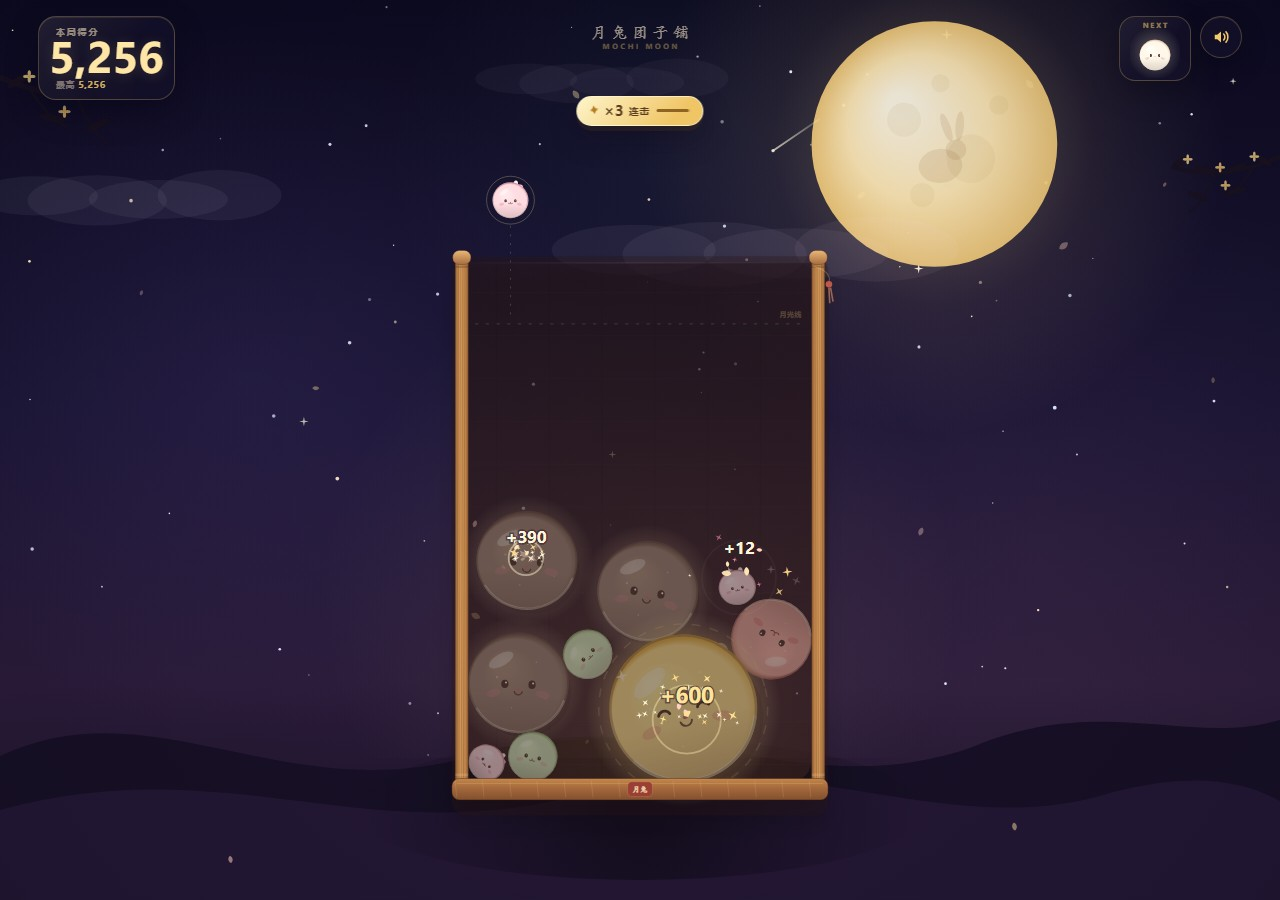
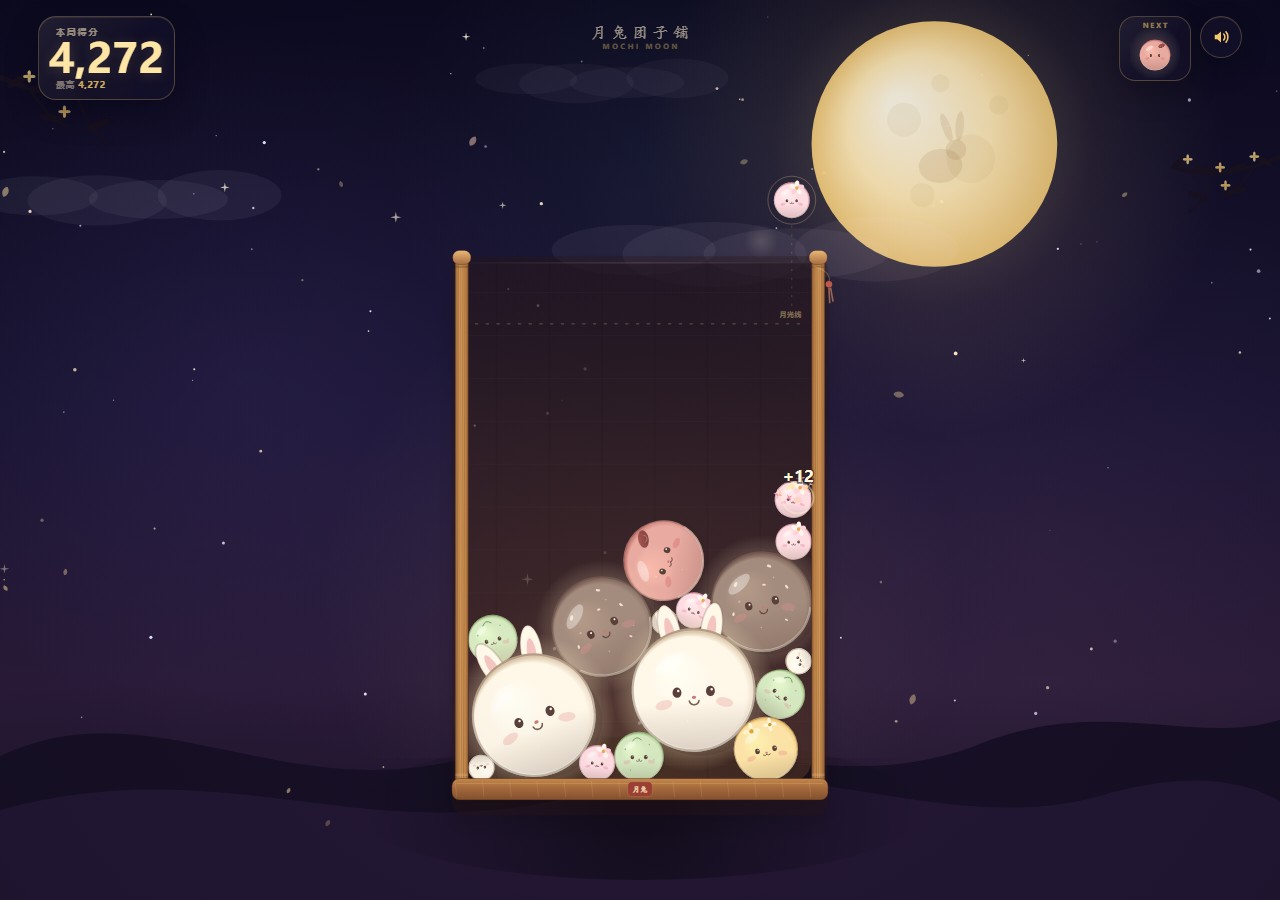
fix: correct mochi layering and polish edge cases
- Draw the basket shadow behind mochi bodies so tier colors stay bright
- Render surface toppings above the body while keeping rabbit ears behind
- Honor landscape safe-area insets in HUD and overlays
- Suppress stray overlay double-click drops with a start cooldown
- Wrap drifting clouds positively and lengthen supernova noise
- Add a result-screen sound toggle and regenerate README screenshots

diff --git a/css/overlays.css b/css/overlays.css
@@ -6,7 +6,11 @@
   z-index: 10;
   display: grid;
   place-items: center;
-  padding: max(16px, env(safe-area-inset-top)) 14px max(16px, env(safe-area-inset-bottom));
+  padding:
+    max(16px, env(safe-area-inset-top))
+    max(14px, env(safe-area-inset-right))
+    max(16px, env(safe-area-inset-bottom))
+    max(14px, env(safe-area-inset-left));
   background:
     radial-gradient(ellipse at 50% 38%, rgba(255, 222, 155, 0.06), transparent 44%),
     rgba(5, 4, 15, 0.48);
@@ -23,7 +27,7 @@
 
 .card {
   position: relative;
-  width: min(92vw, 510px);
+  width: min(100%, 510px);
   max-height: calc(100dvh - 32px);
   overflow: auto;
   padding: 32px clamp(22px, 5vw, 42px) 26px;
@@ -296,7 +300,7 @@
 /* ---------- Result card ---------- */
 
 .result-card {
-  width: min(92vw, 440px);
+  width: min(100%, 440px);
   padding-top: 29px;
 }
 
@@ -423,12 +427,12 @@
 
 @media (max-width: 560px) {
   .overlay {
-    padding-left: 10px;
-    padding-right: 10px;
+    padding-left: max(10px, env(safe-area-inset-left));
+    padding-right: max(10px, env(safe-area-inset-right));
   }
 
   .card {
-    width: min(94vw, 450px);
+    width: min(100%, 450px);
     max-height: calc(100dvh - 24px);
     border-radius: 28px;
     padding: 25px 20px 21px;
@@ -602,11 +606,15 @@
 
 @media (max-height: 560px) and (orientation: landscape) {
   .overlay {
-    padding: 8px;
+    padding:
+      max(8px, env(safe-area-inset-top))
+      max(8px, env(safe-area-inset-right))
+      max(8px, env(safe-area-inset-bottom))
+      max(8px, env(safe-area-inset-left));
   }
 
   .card {
-    width: min(92vw, 760px);
+    width: min(100%, 760px);
     padding: 15px 24px 14px;
     border-radius: 22px;
     max-height: calc(100dvh - 16px);
@@ -690,7 +698,7 @@
   }
 
   .result-card {
-    width: min(88vw, 620px);
+    width: min(100%, 620px);
   }
 
   .result-card h2 {

diff --git a/js/stage.js b/js/stage.js
@@ -71,6 +71,7 @@ export class Stage {
     ctx.scale(this.scale, this.scale);
 
     this.drawBackdrop();
+    this.drawBasketShadow();
     this.drawBasketBack();
     this.drawDangerZone(time, view.mode, view.dangerTimer);
     this.drawBodies(view.bodies, time);
@@ -128,6 +129,25 @@ export class Stage {
     ctx.quadraticCurveTo(B.right, B.bottomY, B.right, B.bottomY - r);
     ctx.lineTo(B.right, B.rimY);
     ctx.closePath();
+  }
+
+  drawBasketShadow() {
+    const { ctx } = this;
+    ctx.save();
+    ctx.shadowColor = "rgba(0, 0, 0, 0.38)";
+    ctx.shadowBlur = 20;
+    ctx.shadowOffsetY = 12;
+    roundRectPath(
+      ctx,
+      B.left - B.wall - 4,
+      B.rimY - 8,
+      B.right - B.left + (B.wall + 4) * 2,
+      B.bottomY - B.rimY + B.wall + 34,
+      18,
+    );
+    ctx.fillStyle = "rgba(43, 24, 22, 0.35)";
+    ctx.fill();
+    ctx.restore();
   }
 
   drawBasketBack() {
@@ -262,22 +282,6 @@ export class Stage {
 
   drawBasketFront() {
     const { ctx } = this;
-    ctx.save();
-    ctx.shadowColor = "rgba(0, 0, 0, 0.38)";
-    ctx.shadowBlur = 20;
-    ctx.shadowOffsetY = 12;
-    roundRectPath(
-      ctx,
-      B.left - B.wall - 4,
-      B.rimY - 8,
-      B.right - B.left + (B.wall + 4) * 2,
-      B.bottomY - B.rimY + B.wall + 34,
-      18,
-    );
-    ctx.fillStyle = "rgba(43, 24, 22, 0.35)";
-    ctx.fill();
-    ctx.restore();
-
     this.drawBambooWall(B.left - B.wall, B.wall, true);
     this.drawBambooWall(B.right, B.wall, false);
 

diff --git a/index.html b/index.html
@@ -147,6 +147,17 @@
 
     <section class="overlay is-hidden" id="overOverlay" role="dialog" aria-modal="true" aria-labelledby="overTitle" aria-hidden="true">
       <div class="card result-card">
+        <button class="card-sound js-sound" type="button" aria-label="关闭声音" aria-pressed="true">
+          <svg class="icon-on" viewBox="0 0 24 24" aria-hidden="true">
+            <path d="M4.5 9.3h3L12 5.5v13l-4.5-3.8h-3z" fill="currentColor" />
+            <path d="M15.2 8.4c1.9 1.9 1.9 5.3 0 7.2M18 5.8c3 3 3 9.4 0 12.4" fill="none" stroke="currentColor" stroke-width="1.9" stroke-linecap="round"/>
+          </svg>
+          <svg class="icon-off" viewBox="0 0 24 24" aria-hidden="true">
+            <path d="M4.5 9.3h3L12 5.5v13l-4.5-3.8h-3z" fill="currentColor" />
+            <path d="m15.3 9.6 4.9 4.9m0-4.9-4.9 4.9" fill="none" stroke="currentColor" stroke-width="1.9" stroke-linecap="round"/>
+          </svg>
+        </button>
+
         <div class="eyebrow">THE MOON IS FULL</div>
         <h2 id="overTitle">今晚打烊啦</h2>
         <p class="lead" id="rankLine">第一笼团子，暖乎乎地出锅啦。</p>

diff --git a/js/mochi-art.js b/js/mochi-art.js
@@ -178,7 +178,7 @@ function drawTinyFlower(ctx, x, y, radius, petal, center) {
   ctx.restore();
 }
 
-function drawToppings(ctx, spec, level, radius, time) {
+function drawSurfaceToppings(ctx, spec, level, radius, time) {
   if (level === 1) {
     drawSakura(ctx, radius * 0.28, -radius * 0.68, radius * 0.3, Math.sin(time * 0.7) * 0.15);
   } else if (level === 2) {
@@ -240,8 +240,6 @@ function drawToppings(ctx, spec, level, radius, time) {
       ctx.fill();
       ctx.restore();
     }
-  } else if (level === 6) {
-    drawRabbitEars(ctx, radius);
   } else if (level === 7) {
     drawGoldenHalo(ctx, radius, time);
     drawSakura(ctx, -radius * 0.5, -radius * 0.56, radius * 0.14, -0.3);
@@ -353,8 +351,9 @@ export function drawMochi(ctx, level, x, y, radius, angle, time, options = {}) {
     ctx.restore();
   }
 
-  drawToppings(ctx, spec, level, radius, time);
+  if (level === 6) drawRabbitEars(ctx, radius);
   drawBody(ctx, spec, radius);
+  drawSurfaceToppings(ctx, spec, level, radius, time);
   drawFace(ctx, spec, radius, level);
 
   if (options.sparkle && level >= 7) {

diff --git a/css/base.css b/css/base.css
@@ -72,7 +72,11 @@ button {
   grid-template-columns: 1fr auto 1fr;
   align-items: start;
   gap: 12px;
-  padding: max(16px, env(safe-area-inset-top)) clamp(14px, 3.4vw, 38px) 0;
+  padding:
+    max(16px, env(safe-area-inset-top))
+    max(clamp(14px, 3.4vw, 38px), env(safe-area-inset-right))
+    0
+    max(clamp(14px, 3.4vw, 38px), env(safe-area-inset-left));
   pointer-events: none;
   opacity: 0;
   visibility: hidden;
@@ -472,8 +476,8 @@ button {
 
 @media (max-width: 720px) {
   .hud {
-    padding-left: 12px;
-    padding-right: 12px;
+    padding-left: max(12px, env(safe-area-inset-left));
+    padding-right: max(12px, env(safe-area-inset-right));
     gap: 6px;
   }
 
@@ -563,6 +567,8 @@ button {
 @media (max-height: 560px) and (orientation: landscape) {
   .hud {
     padding-top: max(10px, env(safe-area-inset-top));
+    padding-right: max(12px, env(safe-area-inset-right));
+    padding-left: max(12px, env(safe-area-inset-left));
   }
 
   .score-card {

diff --git a/js/audio.js b/js/audio.js
@@ -80,7 +80,8 @@ export class SoundKit {
     if (!this.ready) return;
     try {
       if (!this.noiseBuffer) {
-        const length = Math.floor(this.ctx.sampleRate * 0.4);
+        // Long enough for the longest request (supernova is 0.9s).
+        const length = Math.floor(this.ctx.sampleRate);
         this.noiseBuffer = this.ctx.createBuffer(1, length, this.ctx.sampleRate);
         const data = this.noiseBuffer.getChannelData(0);
         for (let i = 0; i < length; i += 1) data[i] = Math.random() * 2 - 1;

diff --git a/js/background.js b/js/background.js
@@ -219,7 +219,9 @@ export class NightSky {
 
   drawClouds(ctx) {
     for (const cloud of this.clouds) {
-      const x = (cloud.x + this.time * cloud.speed) % (this.w + cloud.width) - cloud.width / 2;
+      const span = this.w + cloud.width;
+      const drift = cloud.x + this.time * cloud.speed;
+      const x = ((drift % span) + span) % span - cloud.width / 2;
       ctx.save();
       ctx.globalAlpha = cloud.alpha;
       ctx.fillStyle = "#f6e8ff";

diff --git a/js/game.js b/js/game.js
@@ -161,7 +161,8 @@ function startGame() {
   state.comboTimer = 0;
   state.maxCombo = 0;
   state.highestLevel = 0;
-  state.dropCooldown = 0;
+  // Ignore stray clicks from the overlay button for one cooldown after starting.
+  state.dropCooldown = GAME.dropCooldown;
   state.dangerTimer = 0;
   state.shake = 0;
   state.hintTimer = 5;
